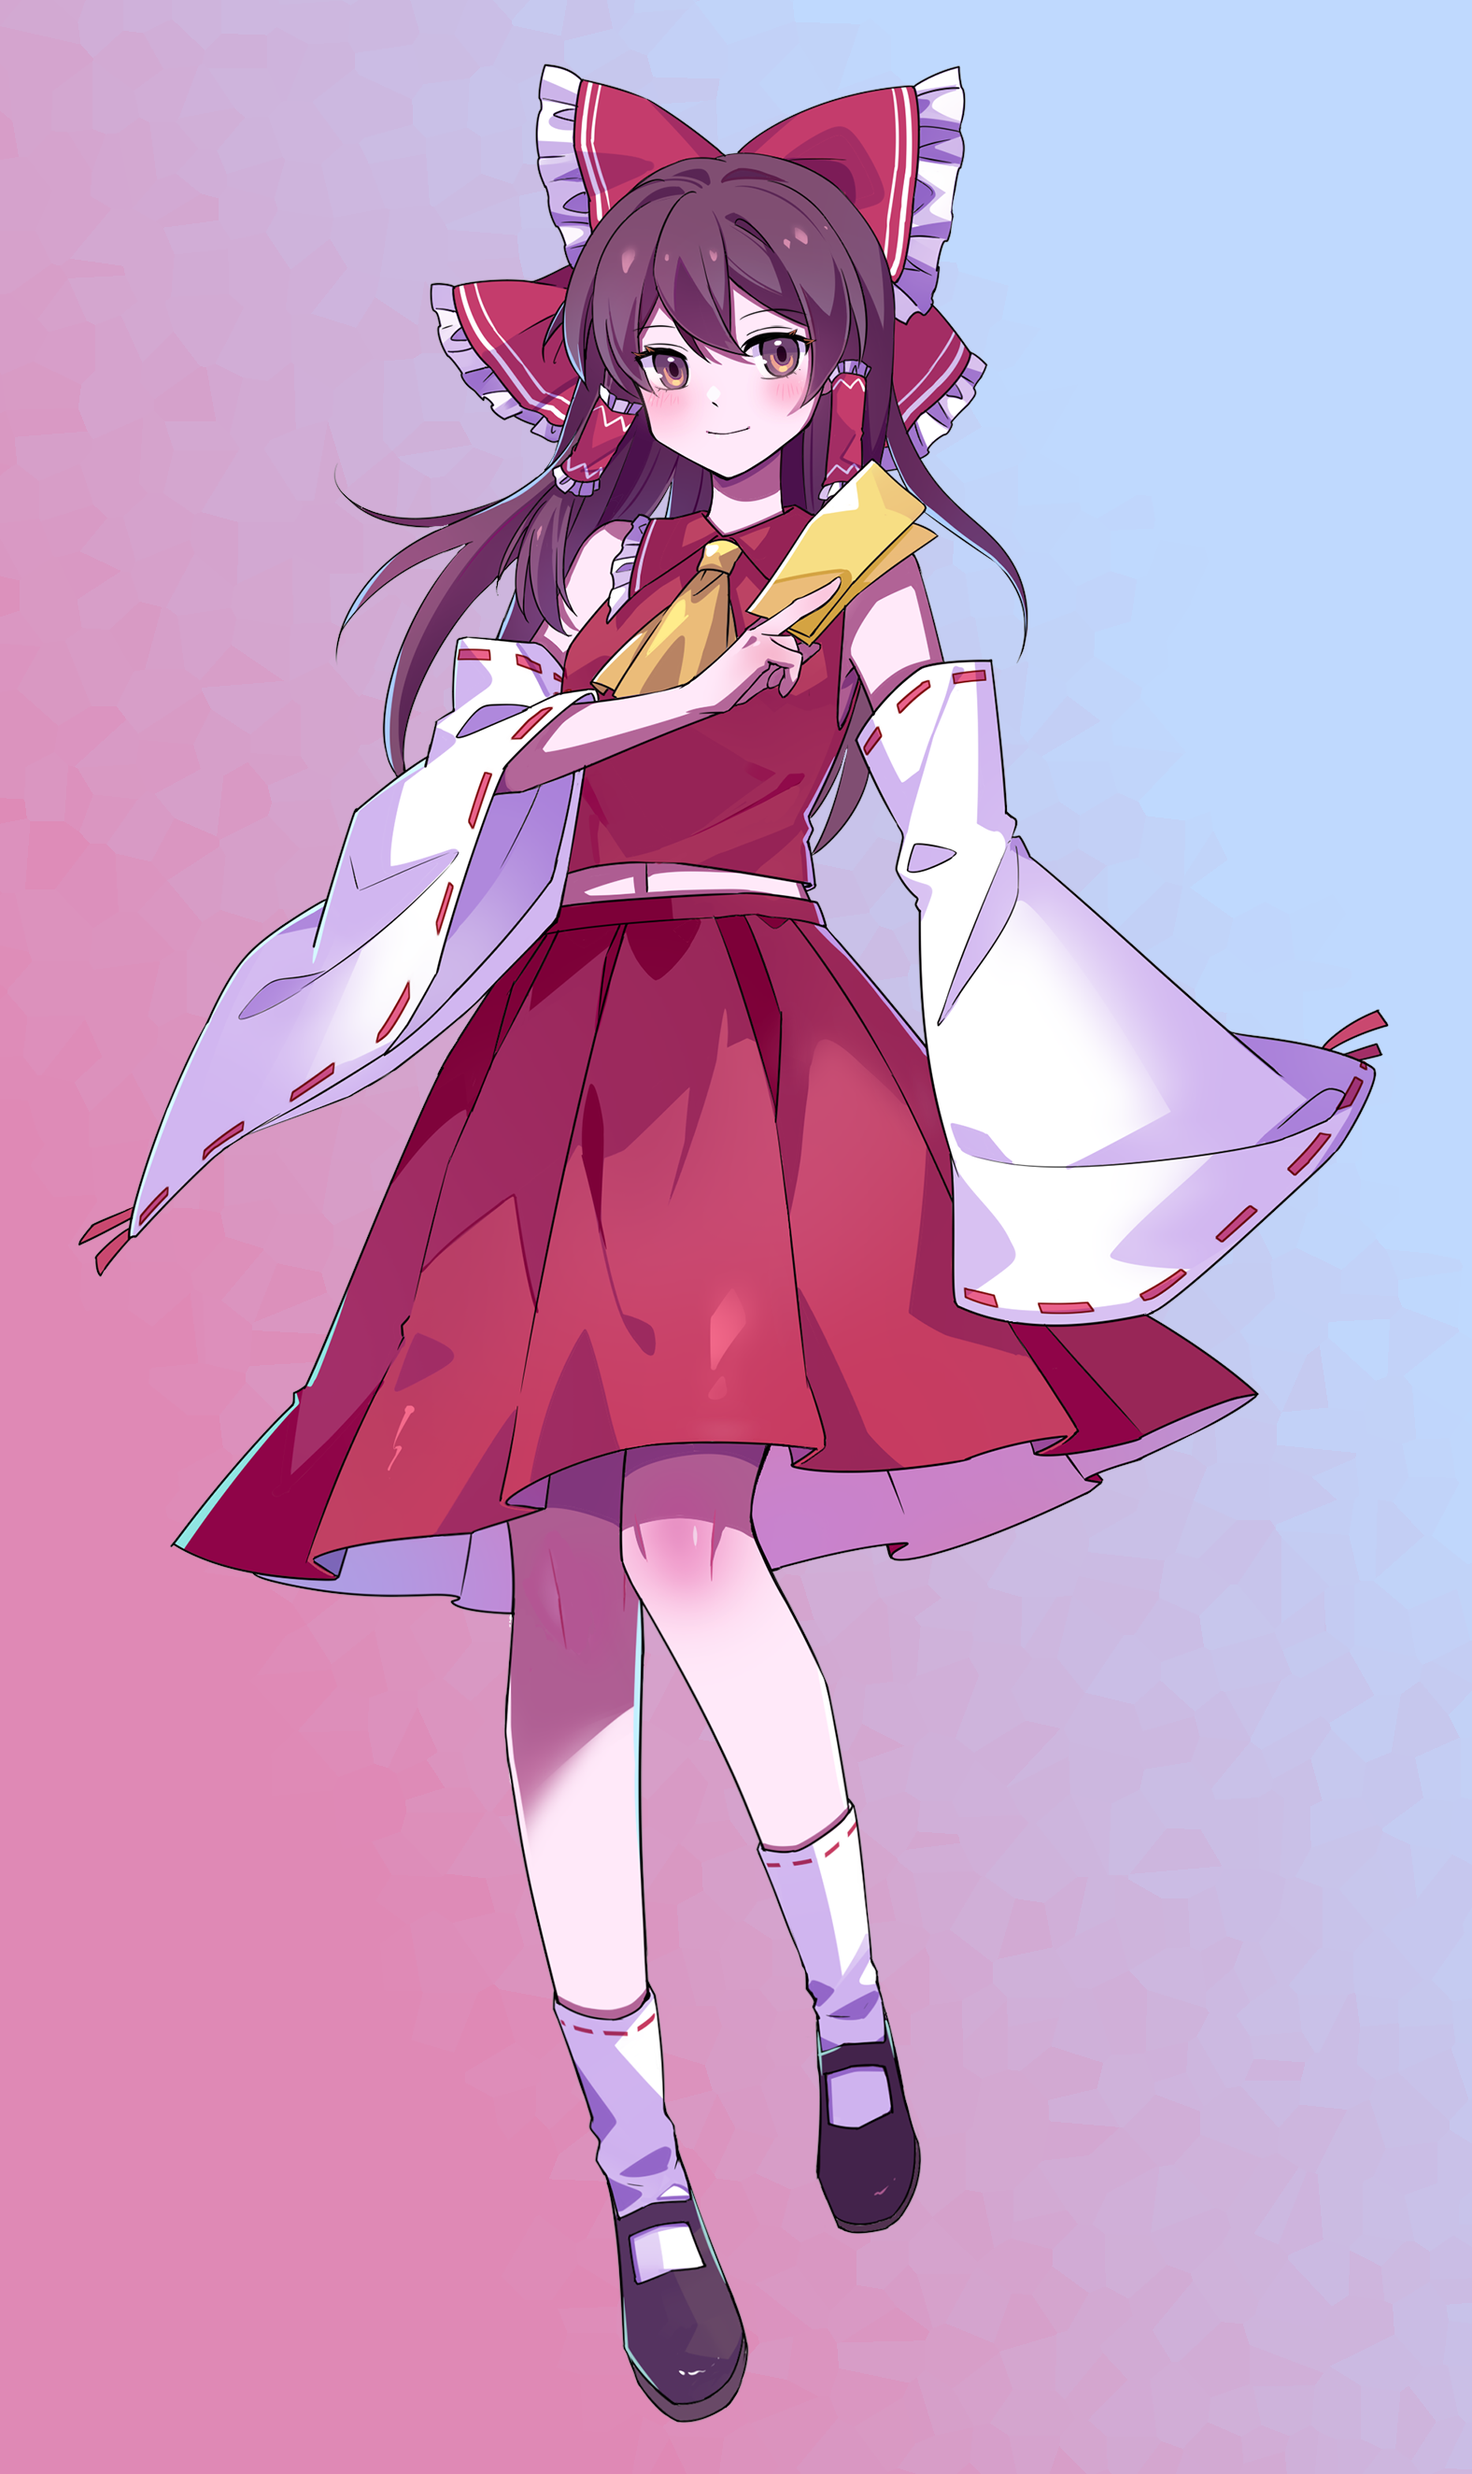
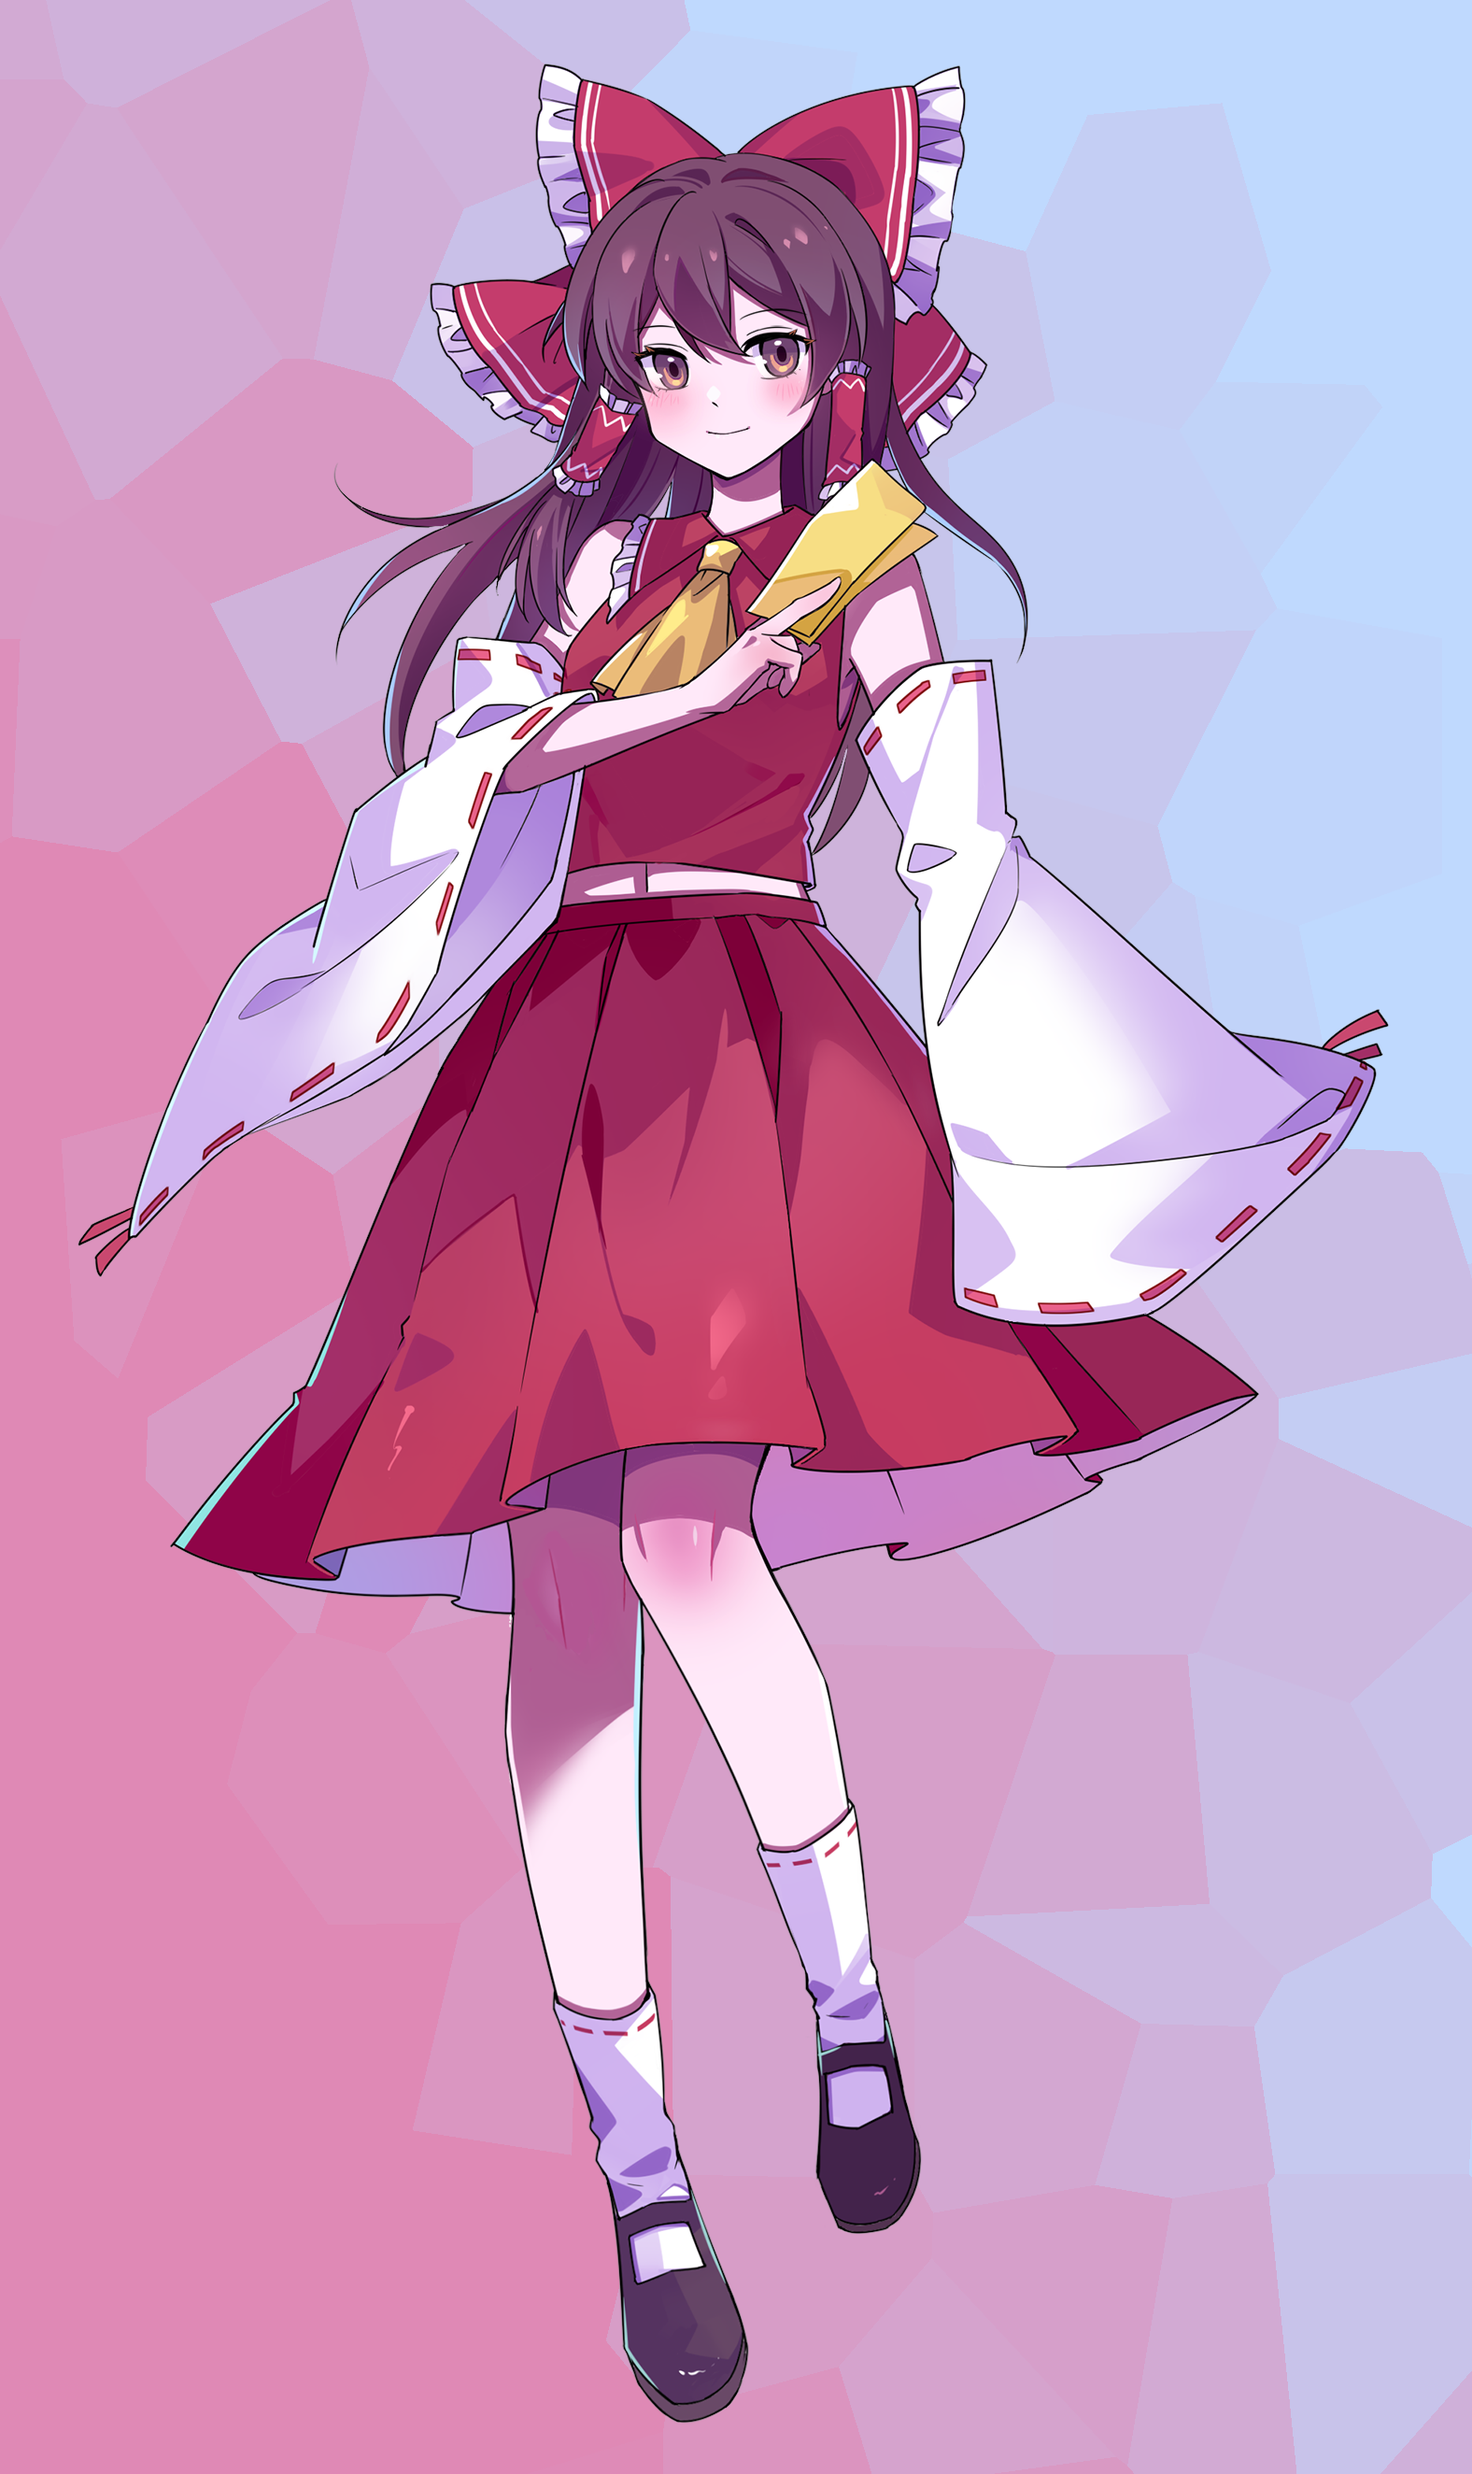
add mesh gradient style, modify voronoi gradient so the shapes are more noticeable

Changed region(s): [[0.8706, 0.4645, 1.0, 0.5574], [0.9016, 0.5884, 1.0, 0.6503], [0.2176, 0.1548, 0.342, 0.2168]]

diff --git a/main.py b/main.py
@@ -11,6 +11,9 @@ import sys
 from pathlib import Path
 import json
 
+# Supported styles
+STYLES = ['gradient', 'liquid', 'voronoi', 'topographic', 'spiral', 'squiggle', 'mesh']
+
 # Preset gradients separated by color count
 GRADIENTS_2 = {
     "fireandice": ["#ff1b6b", "#45caff"],
@@ -257,6 +260,30 @@ def render_squiggle_shader_background(width, height, colors):
     return Image.fromarray(np.asarray(shader.snapshot(time_float=0.0)))
 
 
+def render_mesh_gradient_shader_background(width, height, colors):
+    # Use topographic color derivation for mesh gradient
+    shader_colors = derive_topographic_colors(colors)
+
+    template_path = resource_path("shaders", "mesh_gradient", "main_mesh_gradient_shader.glsl.j2")
+    with template_path.open("r") as f:
+        template = Template(f.read())
+
+    color1 = rgb_to_vec3_glsl(shader_colors[0])
+    color2 = rgb_to_vec3_glsl(shader_colors[1])
+    color3 = rgb_to_vec3_glsl(shader_colors[2])
+    color4 = rgb_to_vec3_glsl(shader_colors[3])
+
+    code = template.render(
+        color1=color1,
+        color2=color2,
+        color3=color3,
+        color4=color4,
+        seed=random.uniform(1, 400)
+    )
+    shader = Shadertoy(code, resolution=(width, height), offscreen=True)
+    return Image.fromarray(np.asarray(shader.snapshot(time_float=0.0)))
+
+
 def create_linear_gradient(width, height, colors, angle=90):
     """Create linear gradient with customizable angle"""
     img = Image.new('RGB', (width, height))
@@ -457,8 +484,8 @@ def parse_orientation(value):
 @click.option("--orientation", "-o", default="vertical",
               help="Gradient orientation: 'vertical' (90°), 'horizontal' (0°), 'diagonal' (45°), 'diagonal-reverse' (135°), or custom angle (0-360)")
 @click.option("--style", default="gradient",
-              type=click.Choice(['gradient', 'liquid', 'voronoi', 'topographic', 'spiral', 'squiggle'], case_sensitive=False),
-              help="Background style: gradient (linear/barycentric), liquid (liquid gradient), spiral, topographic (map-like), or squiggle")
+              type=click.Choice(STYLES, case_sensitive=False),
+              help=f"Background style: {', '.join(STYLES)} (default: gradient)")
 @click.option("--shader-scale", default=0.8, type=float,
               help="Shader pattern scale (default: 0.8)")
 @click.option("--user-gradients", type=click.Path(exists=True, dir_okay=False),
@@ -473,14 +500,14 @@ def main(fuzziness, gradient, bgcolor, overwrite, refine_mask_arg, close_radius,
     🎨 GRADIENTIFY - Replace backgrounds with beautiful gradients 🎨
 
     Features:
-    - Multiple background styles: gradient, shader, topographic
+    - Multiple background styles: gradient, shader, topographic, spiral, voronoi, squiggle, mesh
     - Two processing modes: normal background removal OR transparent-only replacement
     - Preserves all colored pixels in --only-transparent mode
     - Handles images with existing transparency
-    - 26 preset gradients with 2-3 colors
-    - Custom gradient support
-    - User-defined gradients from JSON file (see --user-gradients)
-    - Option to combine user gradients with built-in presets (--combine-presets/--only-user)
+    - 2-color and 3-color preset gradients
+    - Custom gradient support (e.g. --gradient "#ff0000,#00ff00")
+    - User-defined gradients from JSON file (--user-gradients)
+    - Option to combine user gradients with built-in presets (--combine-presets/--only-user-gradients)
     - Adjustable background detection sensitivity
     - Intelligent mask refinement
     - Batch processing with overwrite protection
@@ -492,15 +519,16 @@ def main(fuzziness, gradient, bgcolor, overwrite, refine_mask_arg, close_radius,
     --style spiral:       Spiral shader background
     --style voronoi:      Voronoi diagram shader background
     --style squiggle:     Squiggle shader background
+    --style mesh:         Mesh gradient shader (2 or 3 colors, smooth mesh-like blend)
 
     User-defined gradients:
     --user-gradients FILE    Path to a JSON file with gradients in the format:
-                            {
-                                "mytwocolor": ["#123456", "#abcdef"],
-                                "mythreecolor": ["#ff0000", "#00ff00", "#0000ff"]
-                            }
-    --combine-presets       Combine user gradients with built-in presets (default)
-    --only-user-gradients   Use only user gradients, ignore built-in presets
+                                {
+                                    "mytwocolor": ["#123456", "#abcdef"],
+                                    "mythreecolor": ["#ff0000", "#00ff00", "#0000ff"]
+                                }
+    --combine-presets           Combine user gradients with built-in presets (default)
+    --only-user-gradients       Use only user gradients, ignore built-in presets
 
     Recommended to use transparent PNGs for best results.
 
@@ -519,6 +547,9 @@ def main(fuzziness, gradient, bgcolor, overwrite, refine_mask_arg, close_radius,
 
     5. Custom topographic parameters:
        gradientify.py --style topographic --gradient oceanbliss -ot photo.jpg
+
+    6. Mesh style shader with 2 or 3 colors:
+       gradientify.py --style mesh --gradient "#ff0000,#00ff00,#0000ff" image.png
     """
     # Process files
     if not imagefiles:
@@ -667,6 +698,15 @@ def main(fuzziness, gradient, bgcolor, overwrite, refine_mask_arg, close_radius,
                         if len(current_colors) > 4:
                             raise click.BadParameter("Squiggle shader style requires 2, 3, or 4 colors.")
                         gradient_img = render_squiggle_shader_background(
+                            img.width,
+                            img.height,
+                            current_colors,
+                        )
+                    case "mesh":
+                        print("   └── Rendering mesh gradient shader background...")
+                        if len(current_colors) not in [2, 3]:
+                            raise click.BadParameter("Mesh gradient style requires 2 or 3 colors.")
+                        gradient_img = render_mesh_gradient_shader_background(
                             img.width,
                             img.height,
                             current_colors,

diff --git a/README.md b/README.md
@@ -77,27 +77,33 @@ python main.py --style liquid --gradient fireandice -ot image1.png image2.jpg
 
 ### Background Styles
 
-1. **Gradient** (Linear/Barycentric):
+1. **Linear/Barycentric (Gradient)** :
 Creates smooth color transitions. Supports linear (2 colors) and barycentric (3 colors) gradients.
 ![Alt gradient example](./doc/alpha-ykk-transparent_output_cyberpunk.png)
 
-2. **Liquid**:
+2. **Mesh (Gradient)**:
+Creates complex, multi-color transitions across a shape by creating a grid of random nodes. Supports 2-3 colors.
+![Alt mesh example](./doc/5_output_goldenlagoon_mesh.png)
+
+3. **Liquid**:
 Organic, flowing patterns that simulate liquid movements. Requires exactly 2 colors.
 ![Alt liquid example](./doc/rin-touhou-transparent_output_spicy_sunset_liquid.png)
 
-3. **Voronoi**:
-Cellular patterns based on Voronoi diagrams. Creates a geometric, tech-inspired look... If you really squint your eyes.
+4. **Voronoi**:
+Cellular patterns based on Voronoi diagrams. Creates a geometric, tech-inspired look.
 ![Alt voronoi example](./doc/1_output_bubblegum_voronoi.png)
 
-4. **Topographic**:
+5. **Topographic**:
 Contour map-like patterns that simulate elevation. Works best with 2-4 colors.
 ![Alt voronoi example](./doc/2_output_weddingdayblues_topographic.png)
-5. **Spiral**:
+
+6. **Spiral**:
 Hypnotic spiral patterns that create visual depth. Requires exactly 2 colors.
 ![Alt voronoi example](./doc/3_output_skymint_spiral.png)
-6. **Squiggle**:
+
+7. **Squiggle**:
 Playful squiggly line patterns that add artistic flair. Supports 2-4 colors.
-   ![Alt voronoi example](./doc/4_output_goldenlagoon_squiggle.png)
+![Alt voronoi example](./doc/4_output_goldenlagoon_squiggle.png)
 
 ### Advanced Options
 ```text
